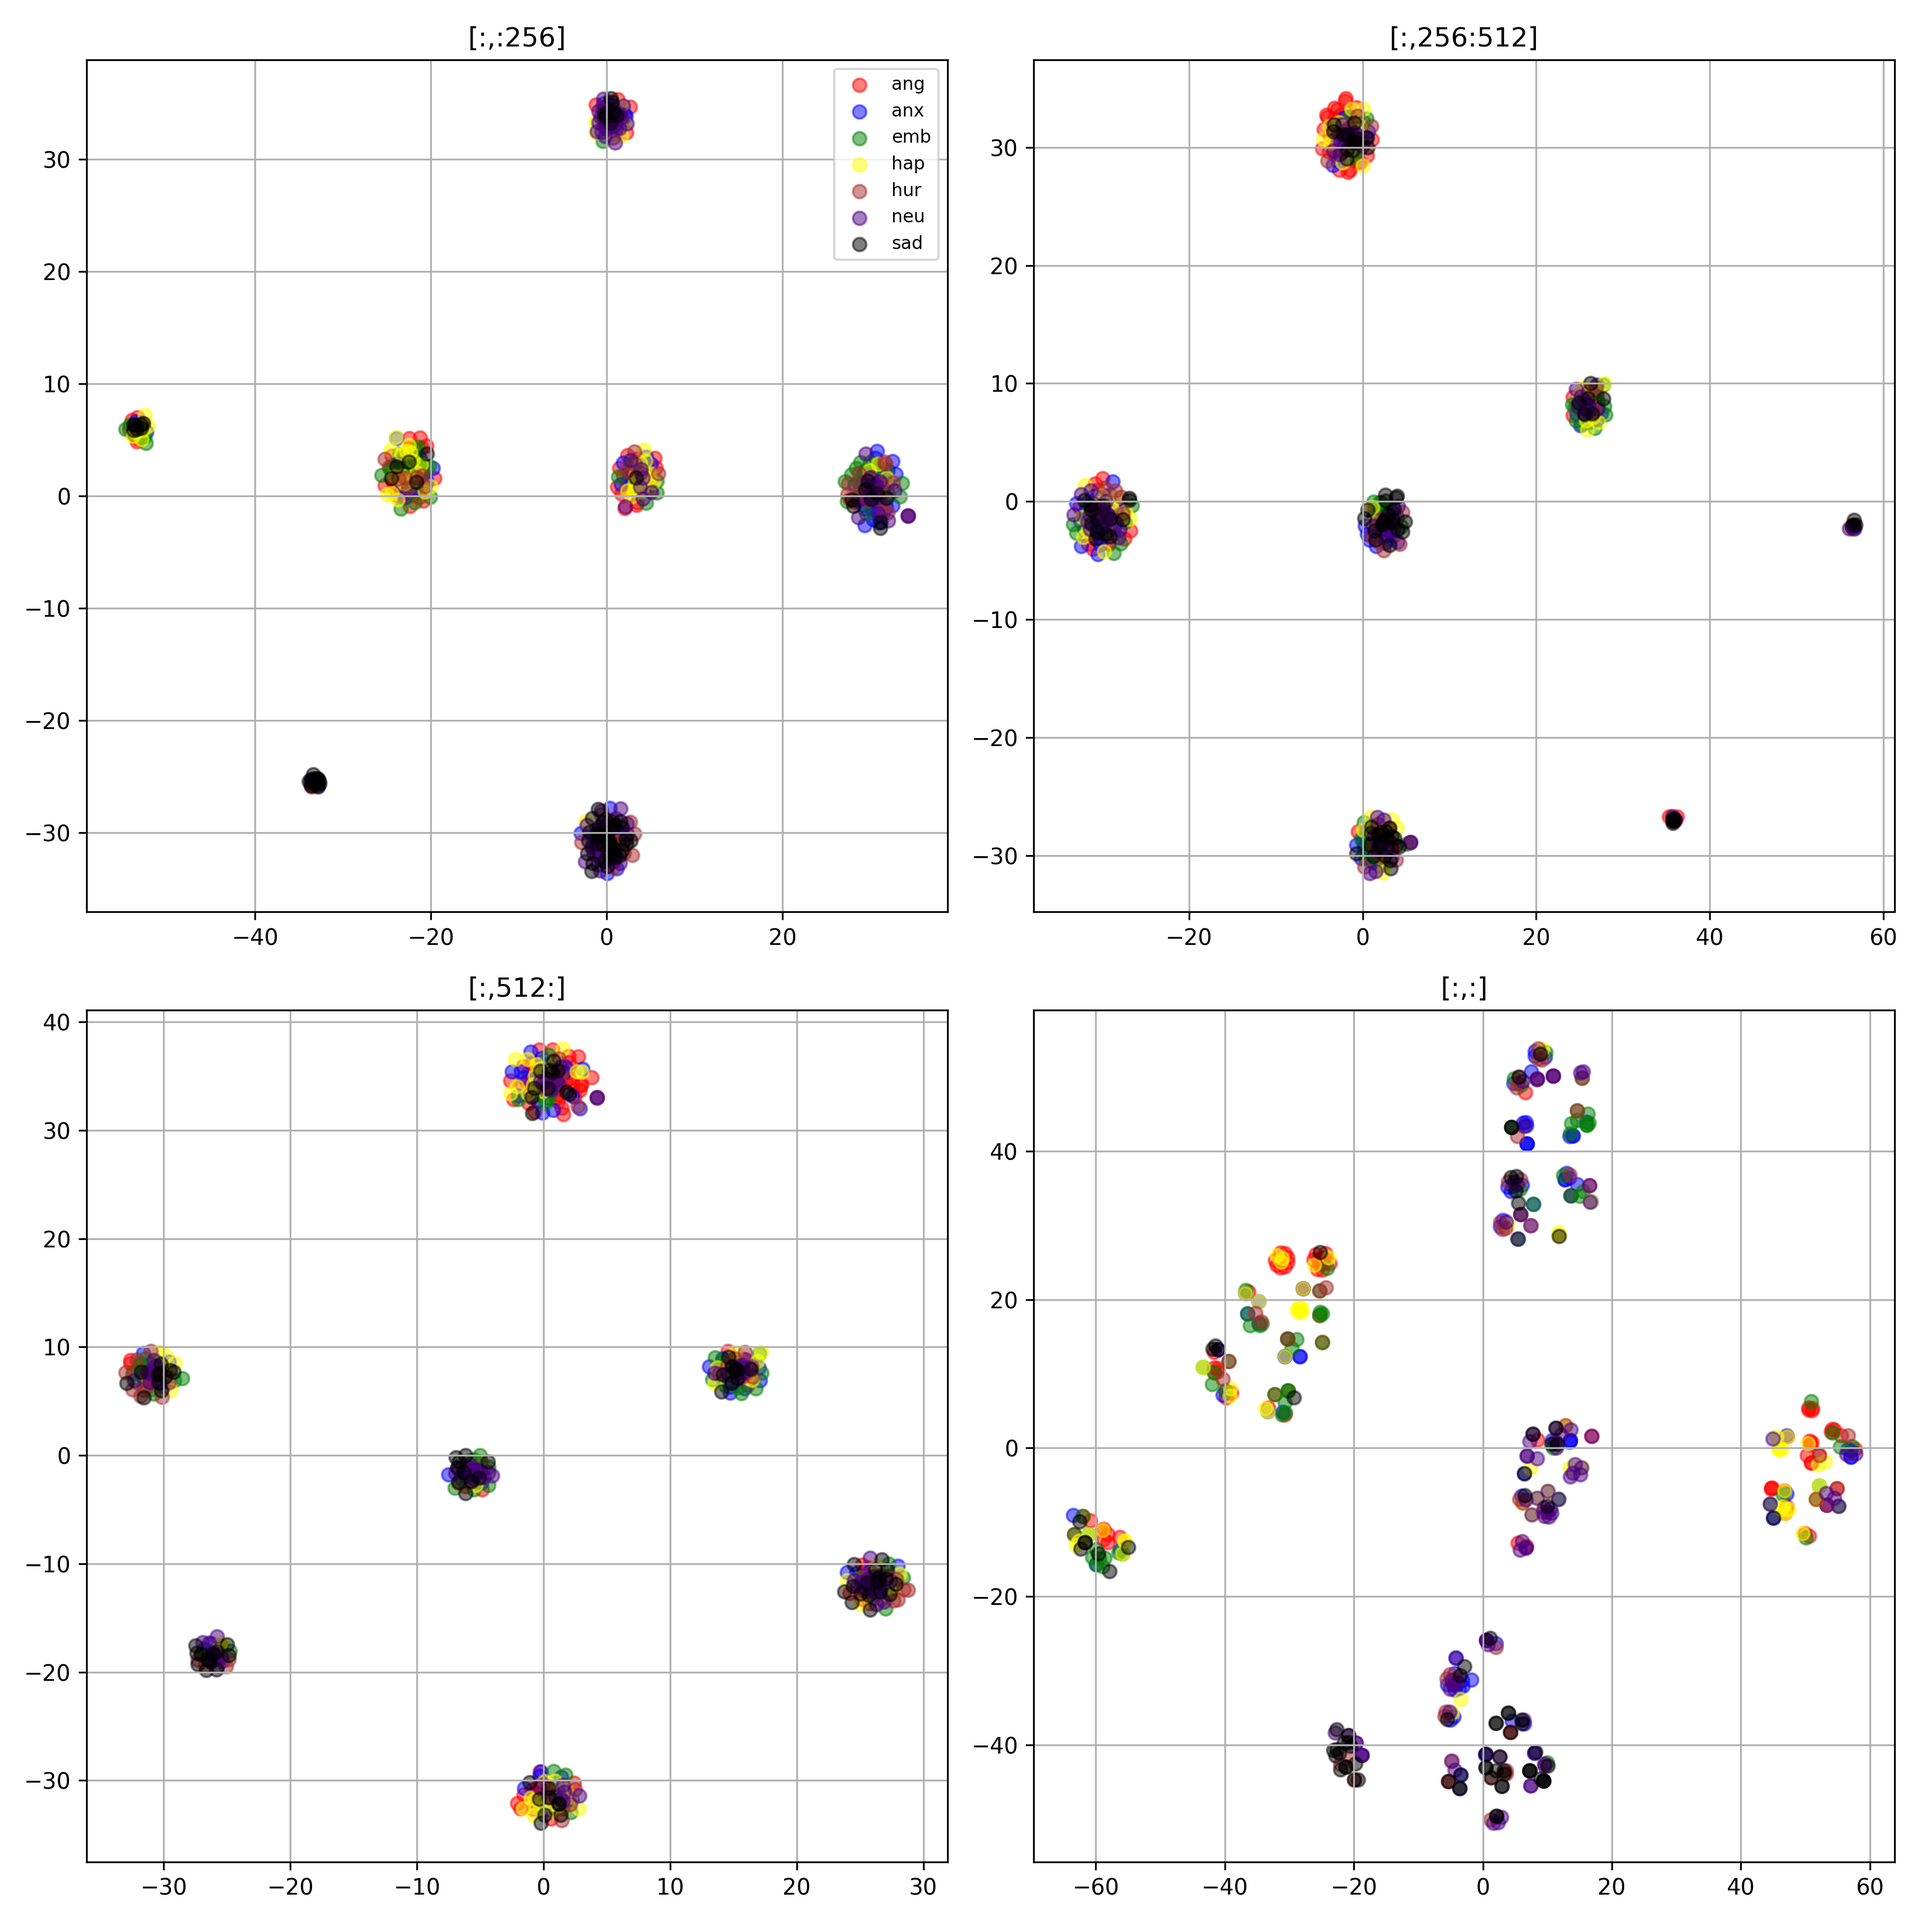
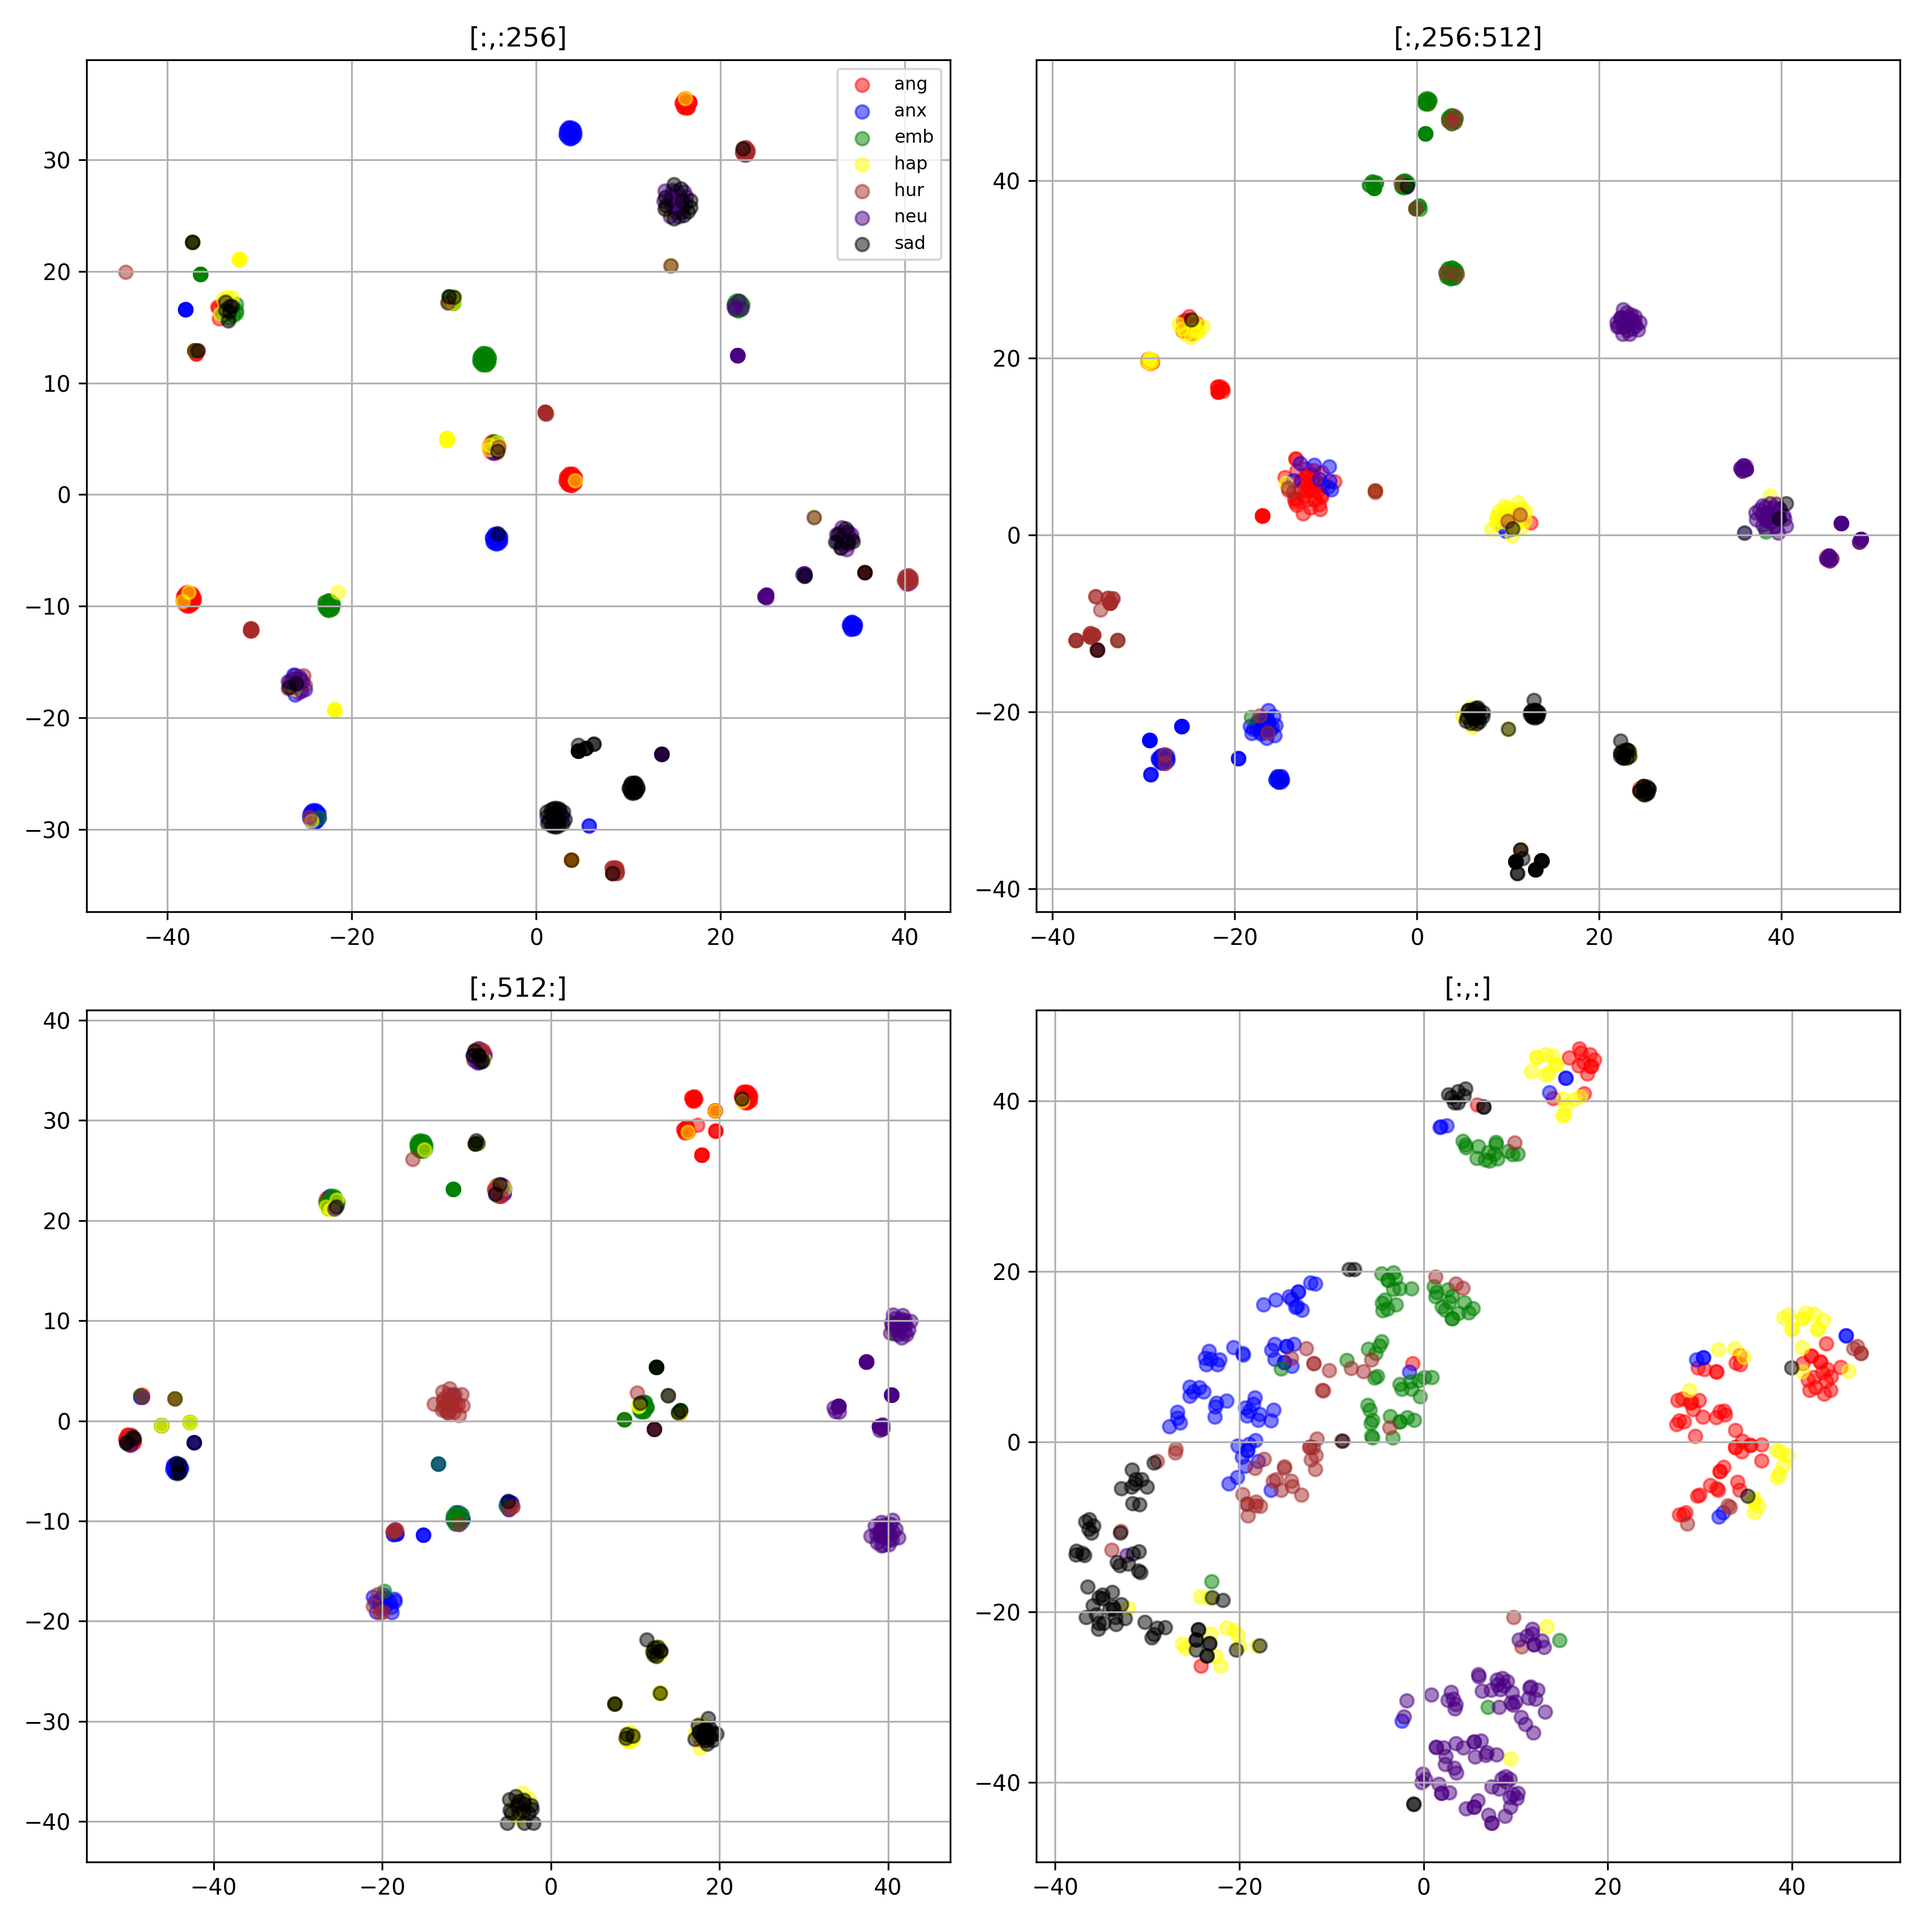
SRVQ Neutralize kmeans : visualize code edit

diff --git a/visualize.py b/visualize.py
@@ -70,15 +70,28 @@ if __name__ == "__main__":
     model = get_model(args, configs, device, train=False)
 
     styles = []
-    for file_path in file_path_list:
+    # for file_path in file_path_list:
+    for i in range(len(file_path_list)):
+        file_path = file_path_list[i]
+        emotion = torch.tensor(emotions[i], device=device).unsqueeze(0)
         print("file_path", file_path)
         # Mel
         mel = np.load(f'preprocessed_data/emo_kr_22050/mel/{file_path[:3]}-mel-{file_path}.npy')
         mel = torch.from_numpy(mel).float().to(device)
         mel = mel.unsqueeze(0)
 
+        pitch_path = f"/root/mydir/ICASSP2024_FS2-develop/ICASSP2024_FS2-develop/normalized_data/pitch_only/{file_path}_pitch.npy"
+        energy_path = f"/root/mydir/ICASSP2024_FS2-develop/ICASSP2024_FS2-develop/normalized_data/energy_only/{file_path}_energy.npy"
+            
+        pitch_mel = torch.from_numpy(np.load(pitch_path).T).to(device).unsqueeze(0)
+        energy_mel = torch.from_numpy(np.load(energy_path).T).to(device).unsqueeze(0)
+
         # style 추출
-        style, _, _, codebooks = model.style_extractor(mel)
+        # style, _, _, codebooks = model.style_extractor(mel, emotion, pitch_mel, energy_mel)
+
+        z_mel, z_pitch, z_energy, cls_loss = model.ref_enc(mel, emotion, pitch_mel, energy_mel)
+        style, _, _, codebooks = model.style_extractor(z_mel, z_pitch, z_energy, cls_loss)
+
         styles.append(style.cpu().data[:, :])  # 전체 임베딩 (예: 768 차원 등)
 
     emotions = np.array(emotions)
